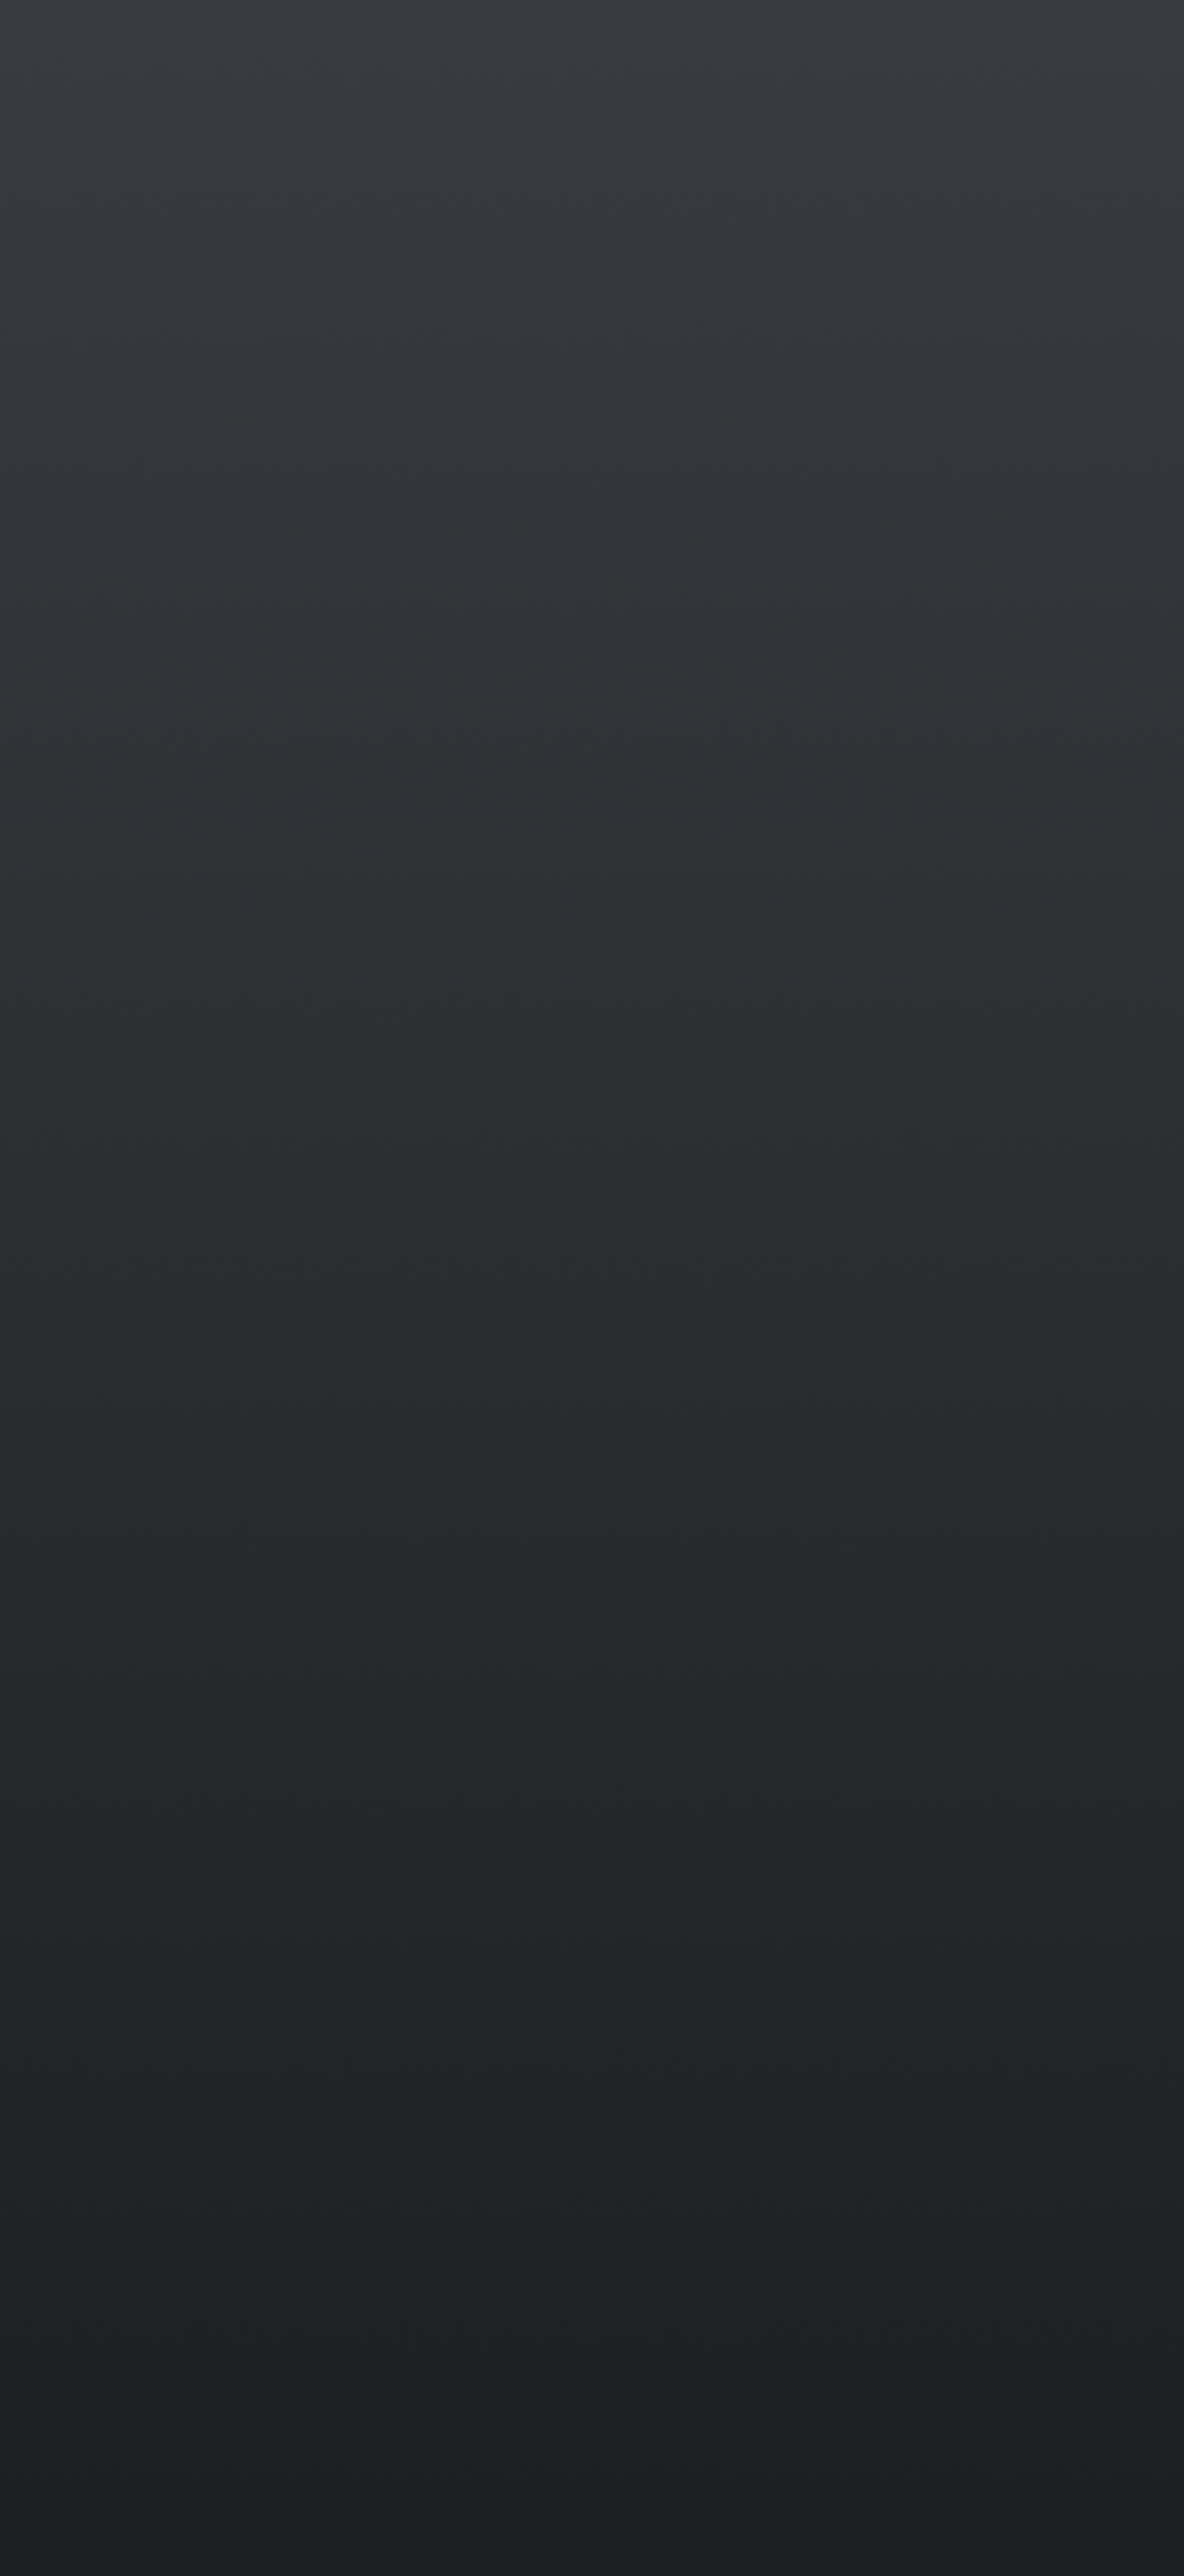
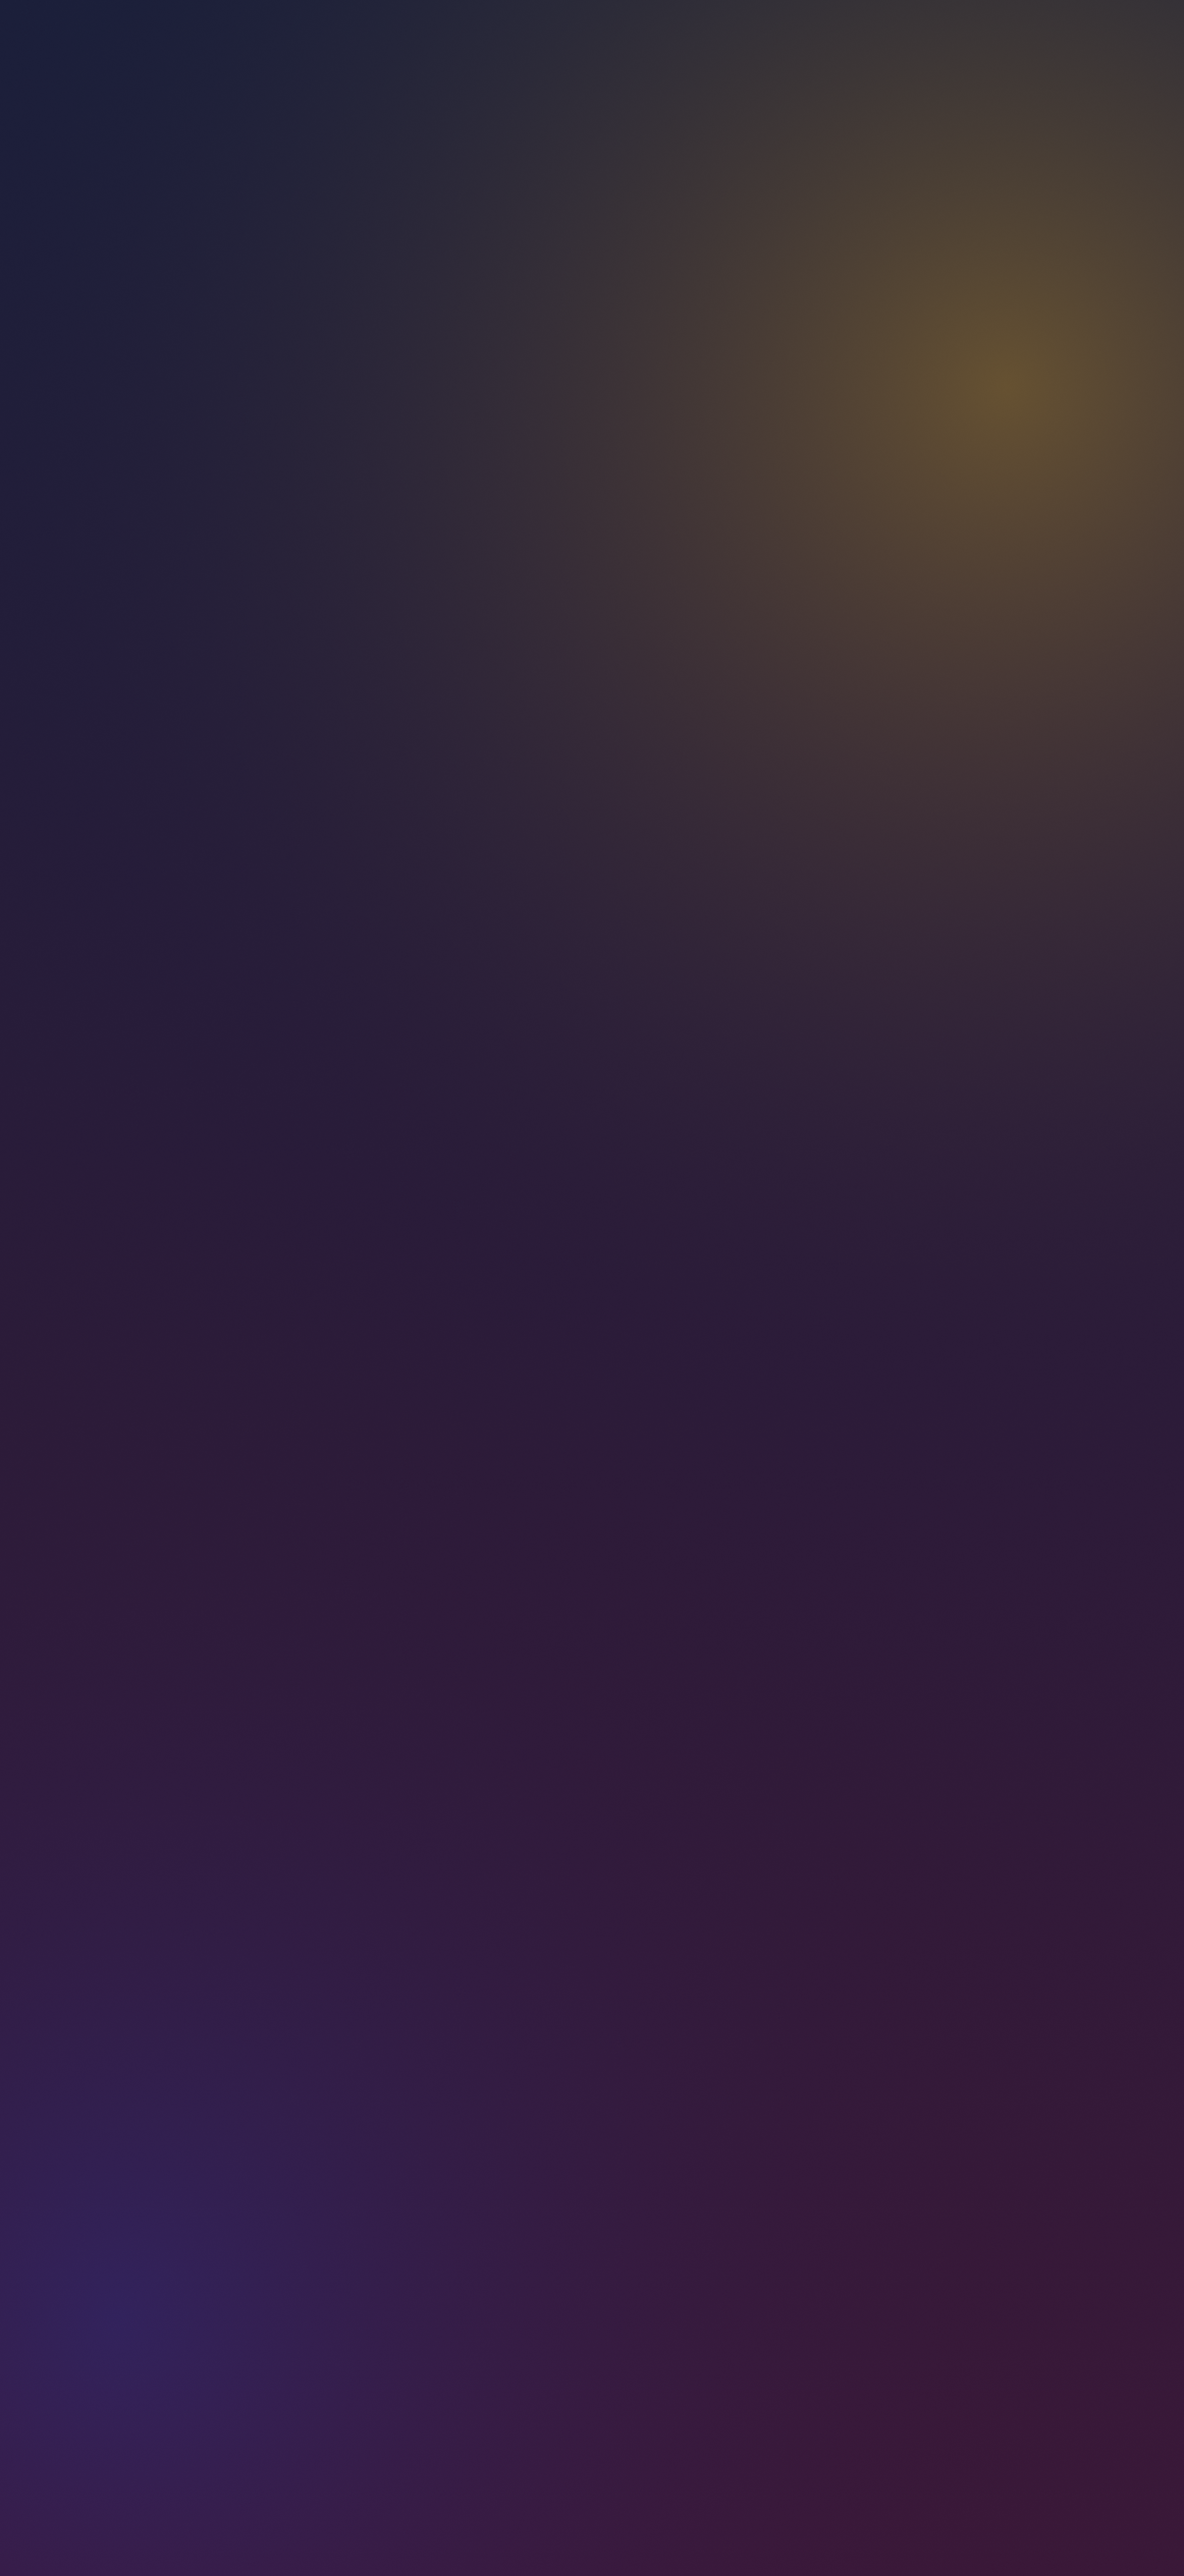
App Store art: dusk wallpaper, Theo in Ochre, Sky first slide
Jake's review: the plain wallpaper was boring, Theo's Cobalt card was hard
to read on the Plum slide, and the Graphite first slide was bland. Captures
showing the wallpaper or Theo are retaken separately.

Claude-Session: https://claude.ai/code/session_01GPo6ErSkdPgB96QHcYGGgn

Changed region(s): [[0.0, 0.7105, 1.0, 1.0], [0.675, 0.0618, 1.0, 0.2471], [0.0, 0.0, 0.3068, 0.1854]]

diff --git a/brand/app-store/README.md b/brand/app-store/README.md
@@ -6,7 +6,7 @@ Revised October 21, 2026 (v3). Draft for review; nothing uploaded or published.
 
 `exports/` contains seven App Store compositions, each at 1206 × 2622 and 1320 × 2868, plus `marketing-screen-story-1920x1080.png` for web/social use. `index.html` is the review gallery; `manifest.json` lists the current outputs. Review the individual images inline; the original `output/shouldertap-screen-marketing-v3.zip` is retained as historical artwork and is not refreshed by the renderer.
 
-1. **A tap that’s hard to miss** — the native iPhone full-screen receiving view, on Graphite so Maya's Moss frame reads as the loud thing on the slide. Her own quick replies ("Coming!", "Save me a plate") are the buttons. The mark's three knock marks land on the phone's shoulder.
+1. **A tap that’s hard to miss** — the native iPhone full-screen receiving view, on Sky so Maya's Moss frame pops. Her own quick replies ("Coming!", "Save me a plate") are the buttons. The mark's three knock marks land on the phone's shoulder.
 2. **A familiar face. In your Island** — the compact Dynamic Island, enlarged, then "Press and hold" into the expanded island with native answer buttons. The phone bleeds off the bottom; the home screen below is not the story.
 3. **Right on your Lock Screen** — the actual Live Activity card, enlarged over the phone where it sits.
 4. **One tap. Every linked screen** — a Mac display and a Windows laptop, each showing its native overlay, plus the linked iPhone.
